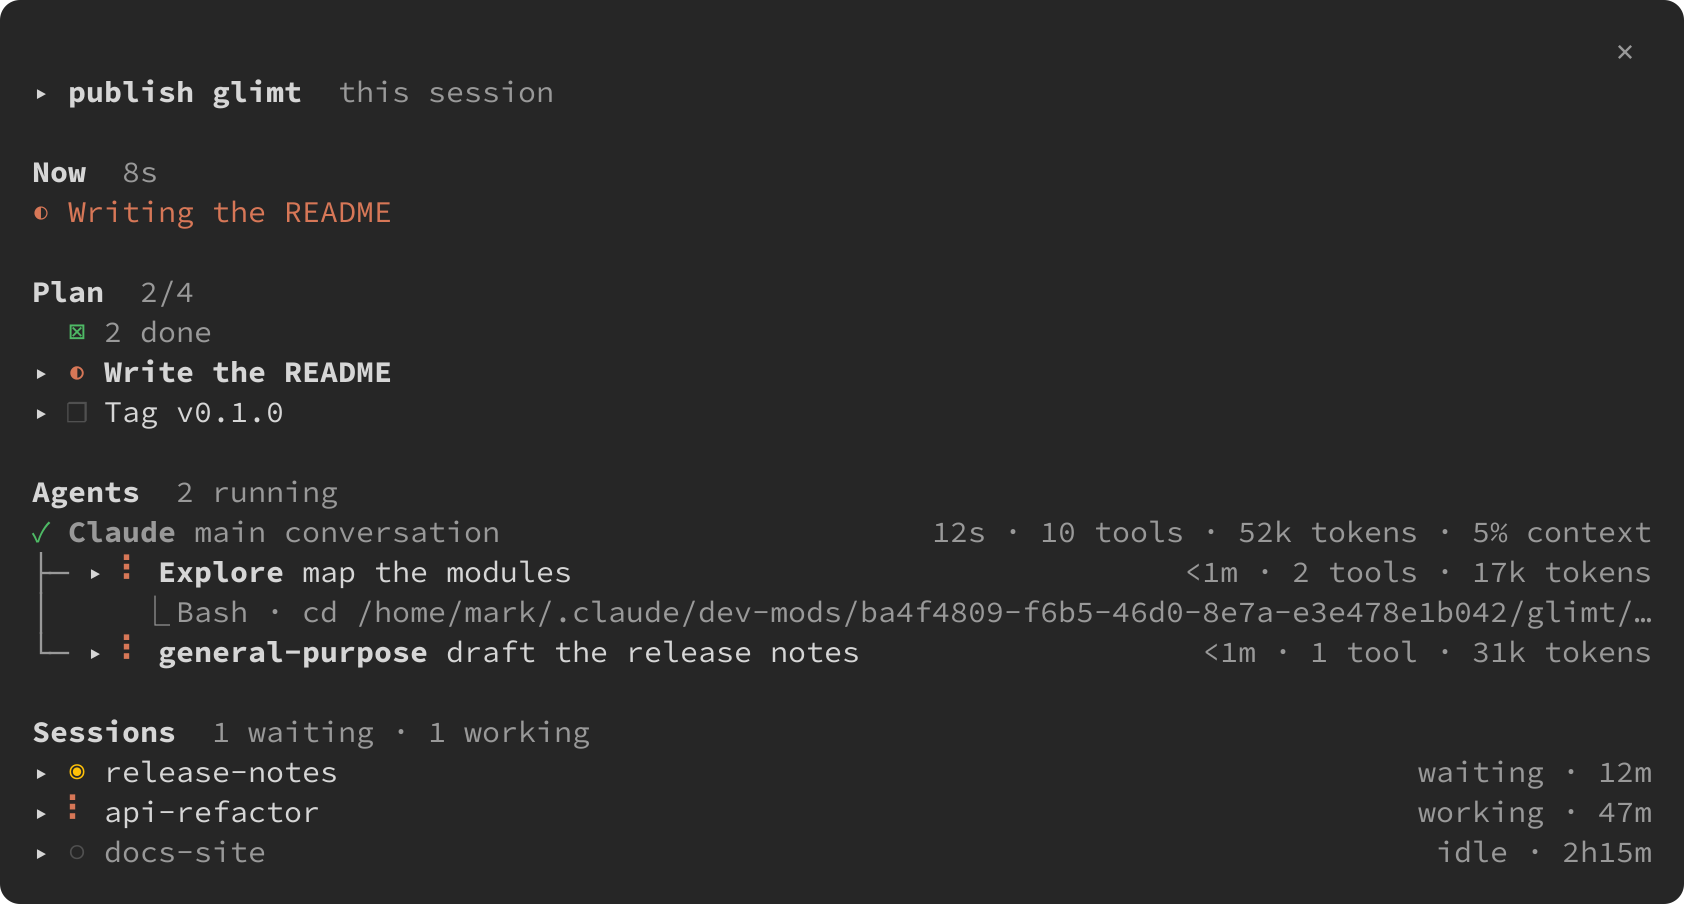
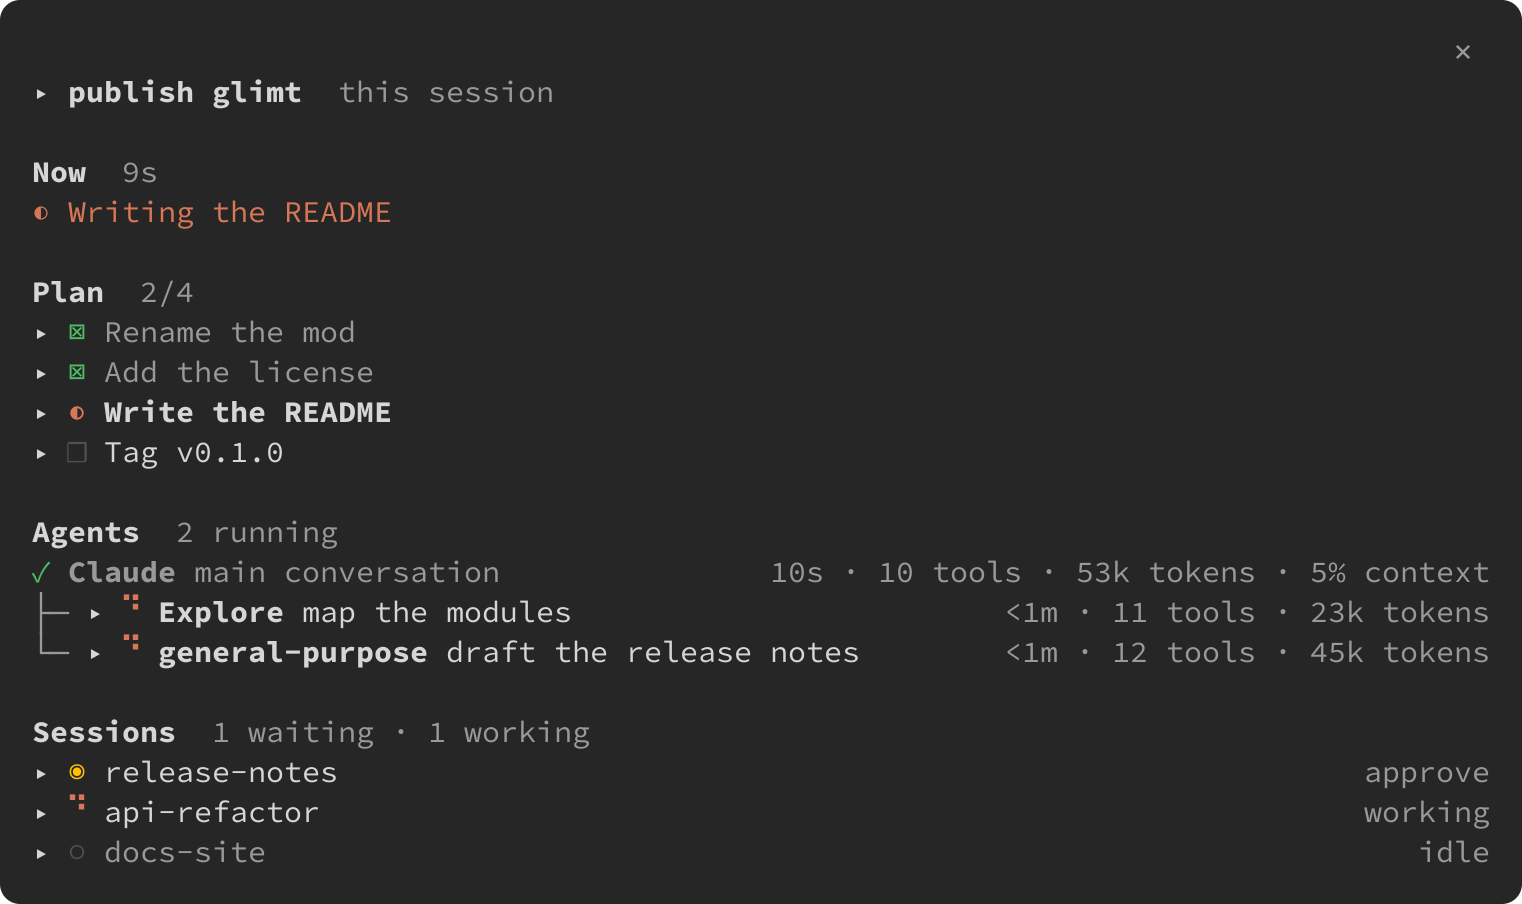
README: screenshot of glimt 0.5.0

diff --git a/README.md b/README.md
@@ -11,7 +11,7 @@ _glimt_ is Danish for a glimpse, a brief flash of light. Say it like _glimpse_ w
 
 Its icon says what it does: everything stays in line; the one that needs you steps out.
 
-![glimt beside a session: this session, Now, the plan with its steps, two agents at work, and three other sessions](docs/screenshot.png)
+![glimt beside a session: this session, Now, the plan with its steps, two agents at work, and three other sessions, one waiting for approval](docs/screenshot.png)
 
 ## Install
 
